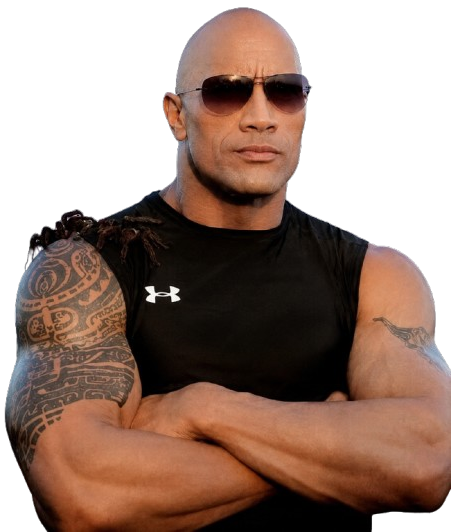
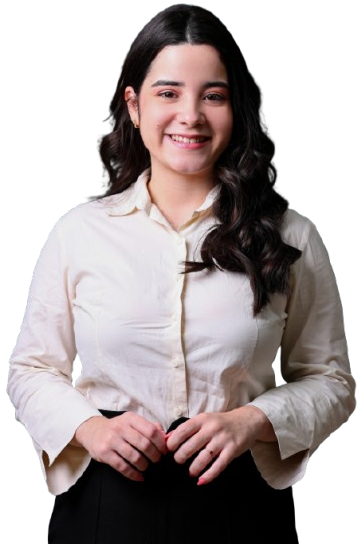
style: atualiza paleta de cores global e aplica ajustes de layout e placeholders

diff --git a/src/components/Navbar.jsx b/src/components/Navbar.jsx
@@ -25,7 +25,7 @@ export default function Navbar() {
   };
 
   return (
-    <nav className="sticky top-0 z-50 bg-black/80 backdrop-blur-md border-b border-neutral-900 w-full px-4 sm:px-6 lg:px-8">
+    <nav className="sticky top-0 z-50 bg-neutral-950 backdrop-blur-md border-b border-neutral-900 w-full px-4 sm:px-6 lg:px-8">
       <div className="max-w-7xl mx-auto flex items-center justify-between h-20">
 
         {/* Logo / Marca */}
@@ -40,14 +40,6 @@ export default function Navbar() {
               e.target.nextSibling.classList.add('flex');
             }}
           />
-          <div className="hidden flex-col leading-tight">
-            <span className="text-2xl font-black tracking-widest text-white">
-              LAMPE
-            </span>
-            <span className="text-[8px] sm:text-[9px] text-neutral-500 tracking-wider font-semibold uppercase">
-              A Luz que protege sua marca
-            </span>
-          </div>
         </NavLink>
 
         {/* Desktop Links */}
@@ -69,12 +61,11 @@ export default function Navbar() {
                 </NavLink>
 
                 {/* Submenu Dropdown com Hover Bridge */}
-                <div 
-                  className={`absolute top-[70px] left-1/2 -translate-x-1/2 w-60 bg-[#121214] border border-neutral-800 rounded-xl shadow-2xl py-2 z-50 transition-all duration-300 transform ${
-                    showDropdown 
-                      ? 'opacity-100 visible translate-y-0 pointer-events-auto' 
-                      : 'opacity-0 invisible translate-y-2 pointer-events-none'
-                  }`}
+                <div
+                  className={`absolute top-[70px] left-1/2 -translate-x-1/2 w-60 bg-[#121214] border border-neutral-800 rounded-xl shadow-2xl py-2 z-50 transition-all duration-300 transform ${showDropdown
+                    ? 'opacity-100 visible translate-y-0 pointer-events-auto'
+                    : 'opacity-0 invisible translate-y-2 pointer-events-none'
+                    }`}
                 >
                   {/* Hover Bridge: área invisível conectando o link ao dropdown */}
                   <div className="absolute -top-4 left-0 w-full h-4 bg-transparent" />
@@ -82,33 +73,30 @@ export default function Navbar() {
                   <NavLink
                     to="/servicos?tipo=marca"
                     onClick={() => setShowDropdown(false)}
-                    className={`block px-4 py-3 text-sm rounded-lg mx-2 transition-colors font-medium ${
-                      location.search === '?tipo=marca' || location.search === '' 
-                        ? 'text-yellow-400 bg-neutral-800/50 font-semibold' 
-                        : 'text-neutral-400 hover:text-yellow-400 hover:bg-neutral-800/40'
-                    }`}
+                    className={`block px-4 py-3 text-sm rounded-lg mx-2 transition-colors font-medium ${location.search === '?tipo=marca' || location.search === ''
+                      ? 'text-yellow-400 bg-neutral-800/50 font-semibold'
+                      : 'text-neutral-400 hover:text-yellow-400 hover:bg-neutral-800/40'
+                      }`}
                   >
                     Registro de Marca
                   </NavLink>
                   <NavLink
                     to="/servicos?tipo=patentes"
                     onClick={() => setShowDropdown(false)}
-                    className={`block px-4 py-3 text-sm rounded-lg mx-2 transition-colors font-medium ${
-                      location.search === '?tipo=patentes' 
-                        ? 'text-yellow-400 bg-neutral-800/50 font-semibold' 
-                        : 'text-neutral-400 hover:text-yellow-400 hover:bg-neutral-800/40'
-                    }`}
+                    className={`block px-4 py-3 text-sm rounded-lg mx-2 transition-colors font-medium ${location.search === '?tipo=patentes'
+                      ? 'text-yellow-400 bg-neutral-800/50 font-semibold'
+                      : 'text-neutral-400 hover:text-yellow-400 hover:bg-neutral-800/40'
+                      }`}
                   >
                     Registro de Patentes
                   </NavLink>
                   <NavLink
                     to="/servicos?tipo=projetos"
                     onClick={() => setShowDropdown(false)}
-                    className={`block px-4 py-3 text-sm rounded-lg mx-2 transition-colors font-medium ${
-                      location.search === '?tipo=projetos' 
-                        ? 'text-yellow-400 bg-neutral-800/50 font-semibold' 
-                        : 'text-neutral-400 hover:text-yellow-400 hover:bg-neutral-800/40'
-                    }`}
+                    className={`block px-4 py-3 text-sm rounded-lg mx-2 transition-colors font-medium ${location.search === '?tipo=projetos'
+                      ? 'text-yellow-400 bg-neutral-800/50 font-semibold'
+                      : 'text-neutral-400 hover:text-yellow-400 hover:bg-neutral-800/40'
+                      }`}
                   >
                     Projetos
                   </NavLink>

diff --git a/src/pages/About.jsx b/src/pages/About.jsx
@@ -42,43 +42,10 @@ export default function About() {
           </p>
         </div>
 
-        {/* 3-Column Layout (Lara - Lightbulb - Pedro) */}
+        {/* 3-Column Layout (Pedro - Lightbulb - Lara) */}
         <div className="grid grid-cols-3 items-center gap-4 sm:gap-8 max-w-3xl mx-auto">
 
-          {/* Column 1: Lara */}
-          <div
-            className="flex flex-col items-center justify-end cursor-pointer"
-            onMouseEnter={() => setSelectedPerson('lara')}
-            onClick={() => setSelectedPerson('lara')}
-          >
-            <div className="h-72 sm:h-80 md:h-[350px] flex items-end justify-center">
-              <img
-                src="/Lara.png"
-                alt="Lara"
-                className={`w-auto max-h-full object-contain ${selectedPerson === 'lara'
-                  ? 'opacity-100 grayscale-0 drop-shadow-[0_0_25px_rgba(250,204,21,0.85)] scale-105 transition-all duration-300'
-                  : 'opacity-60 grayscale brightness-75 transition-all duration-300 hover:opacity-100 hover:grayscale-0'
-                  }`}
-              />
-            </div>
-            <span className={`mt-4 text-xs sm:text-sm font-bold transition-colors duration-300 ${selectedPerson === 'lara' ? 'text-yellow-400' : 'text-neutral-500'}`}>
-              Lara
-            </span>
-          </div>
-
-          {/* Column 2: Interactive Lightbulb */}
-          <div className="flex flex-col items-center justify-center">
-            <Lightbulb
-              size={72}
-              onClick={() => setIsLit(!isLit)}
-              className={`cursor-pointer ${isLit
-                ? 'text-yellow-400 drop-shadow-[0_0_30px_rgba(250,204,21,1)] scale-110 transition-all duration-300'
-                : 'text-neutral-600 hover:text-neutral-400 transition-colors duration-300'
-                }`}
-            />
-          </div>
-
-          {/* Column 3: Pedro */}
+          {/* Column 1: Pedro */}
           <div
             className="flex flex-col items-center justify-end cursor-pointer"
             onMouseEnter={() => setSelectedPerson('pedro')}
@@ -99,10 +66,43 @@ export default function About() {
             </span>
           </div>
 
+          {/* Column 2: Interactive Lightbulb */}
+          <div className="flex flex-col items-center justify-center">
+            <Lightbulb
+              size={72}
+              onClick={() => setIsLit(!isLit)}
+              className={`cursor-pointer ${isLit
+                ? 'text-yellow-400 drop-shadow-[0_0_30px_rgba(250,204,21,1)] scale-110 transition-all duration-300'
+                : 'text-neutral-600 hover:text-neutral-400 transition-colors duration-300'
+                }`}
+            />
+          </div>
+
+          {/* Column 3: Lara */}
+          <div
+            className="flex flex-col items-center justify-end cursor-pointer"
+            onMouseEnter={() => setSelectedPerson('lara')}
+            onClick={() => setSelectedPerson('lara')}
+          >
+            <div className="h-72 sm:h-80 md:h-[350px] flex items-end justify-center">
+              <img
+                src="/Lara.png"
+                alt="Lara"
+                className={`w-auto max-h-full object-contain ${selectedPerson === 'lara'
+                  ? 'opacity-100 grayscale-0 drop-shadow-[0_0_25px_rgba(250,204,21,0.85)] scale-105 transition-all duration-300'
+                  : 'opacity-60 grayscale brightness-75 transition-all duration-300 hover:opacity-100 hover:grayscale-0'
+                  }`}
+              />
+            </div>
+            <span className={`mt-4 text-xs sm:text-sm font-bold transition-colors duration-300 ${selectedPerson === 'lara' ? 'text-yellow-400' : 'text-neutral-500'}`}>
+              Lara
+            </span>
+          </div>
+
         </div>
 
         {/* Dynamic Detail Area */}
-        <div className="bg-neutral-900/60 border border-neutral-800 rounded-2xl p-6 relative overflow-hidden min-h-[280px]">
+        <div className="bg-neutral-900/60 border border-neutral-800 rounded-2xl p-6 relative overflow-hidden min-h-[255px]">
           <div className="absolute inset-0 bg-yellow-500/5 blur-xl pointer-events-none"></div>
 
           <AnimatePresence mode="wait">

diff --git a/src/pages/Contact.jsx b/src/pages/Contact.jsx
@@ -13,9 +13,9 @@ const CONTACT_INFO = {
     link: 'https://api.whatsapp.com/send?phone=5583987048202',
   },
   emails: [
-    { label: 'pedro@lampebr.com', link: 'mailto:pedro@lampebr.com' },
-    { label: 'lara@lampebr.com', link: 'mailto:lara@lampebr.com' },
-    { label: 'contato@lampebr.com', link: 'mailto:contato@lampebr.com' },
+    { label: 'pedro@lampebr.com', link: 'https://mail.google.com/mail/?view=cm&fs=1&to=pedro@lampebr.com' },
+    { label: 'lara@lampebr.com', link: 'https://mail.google.com/mail/?view=cm&fs=1&to=lara@lampebr.com' },
+    { label: 'contato@lampebr.com', link: 'https://mail.google.com/mail/?view=cm&fs=1&to=contato@lampebr.com' },
   ],
 };
 
@@ -80,7 +80,7 @@ export default function Contact() {
 
             {/* Coluna Esquerda: Lista de Contatos */}
             <div className="space-y-6 bg-neutral-900/40 border border-neutral-800/80 rounded-2xl p-8 backdrop-blur-sm flex flex-col justify-center h-full min-h-[300px]">
-              <h2 className="text-xl font-bold text-white mb-2 uppercase tracking-wide border-b border-neutral-800 pb-3">
+              <h2 className="text-xl font-bold text-lampe-orange mb-2 uppercase tracking-wide border-b border-neutral-800 pb-3">
                 Canais de Contato
               </h2>
               <div className="space-y-5">
@@ -139,7 +139,7 @@ export default function Contact() {
             <div className="flex flex-col items-center justify-center text-center h-full min-h-[300px]">
               <div
                 onClick={() => setIsLit(!isLit)}
-                className="cursor-pointer p-6 rounded-full hover:bg-neutral-950/40 transition-colors duration-300 relative group"
+                className="cursor-pointer p-6 rounded-full transition-colors duration-300 relative group"
               >
                 <Lightbulb
                   className={`w-28 h-28 transition-all duration-500 ${isLit
@@ -172,7 +172,7 @@ export default function Contact() {
         {/* SEÇÃO INFERIOR: "EMPRESAS QUE ACENDERAM SEUS NEGÓCIOS" */}
         <div className="space-y-10 border-t border-neutral-900 pt-16">
           <div className="text-center">
-            <h2 className="text-2xl sm:text-3xl font-black text-white tracking-wide uppercase">
+            <h2 className="text-2xl sm:text-3xl font-black text-lampe-orange   tracking-wide uppercase">
               EMPRESAS QUE <span className="text-yellow-400 drop-shadow-[0_0_8px_rgba(250,204,21,0.4)]">ACENDERAM</span> SEUS NEGÓCIOS
             </h2>
           </div>

diff --git a/src/components/Footer.jsx b/src/components/Footer.jsx
@@ -6,7 +6,7 @@ export default function Footer() {
   const currentYear = new Date().getFullYear();
 
   return (
-    <footer className="bg-black border-t border-neutral-900 text-neutral-400 py-12 px-4 sm:px-6 lg:px-8 w-full mt-auto">
+    <footer className="bg-neutral-950 border-t border-neutral-900 text-neutral-400 py-12 px-4 sm:px-6 lg:px-8 w-full mt-auto">
       <div className="max-w-7xl mx-auto grid grid-cols-1 md:grid-cols-3 gap-8 items-center text-center md:text-left">
 
         {/* Branding */}
@@ -32,7 +32,7 @@ export default function Footer() {
           <h4 className="text-sm font-bold text-white uppercase tracking-wider mb-2">Conecte-se Conosco</h4>
           <div className="flex gap-4">
             <a
-              href="https://instagram.com"
+              href="https://www.instagram.com/lampebr/"
               target="_blank"
               rel="noopener noreferrer"
               className="w-10 h-10 rounded-lg bg-neutral-900 border border-neutral-800 flex items-center justify-center text-neutral-400 hover:text-yellow-400 hover:border-yellow-400/40 hover:shadow-[0_0_10px_rgba(250,204,21,0.3)] transition-all duration-300 cursor-pointer"
@@ -45,7 +45,7 @@ export default function Footer() {
               </svg>
             </a>
             <a
-              href="https://wa.me/5581999999999"
+              href="https://api.whatsapp.com/send?phone=5583987048202"
               target="_blank"
               rel="noopener noreferrer"
               className="w-10 h-10 rounded-lg bg-neutral-900 border border-neutral-800 flex items-center justify-center text-neutral-400 hover:text-yellow-400 hover:border-yellow-400/40 hover:shadow-[0_0_10px_rgba(250,204,21,0.3)] transition-all duration-300 cursor-pointer"
@@ -56,7 +56,7 @@ export default function Footer() {
               </svg>
             </a>
             <a
-              href="mailto:contato@lampe.com.br"
+              href="https://mail.google.com/mail/?view=cm&fs=1&to=contato@lampebr.com"
               className="w-10 h-10 rounded-lg bg-neutral-900 border border-neutral-800 flex items-center justify-center text-neutral-400 hover:text-yellow-400 hover:border-yellow-400/40 hover:shadow-[0_0_10px_rgba(250,204,21,0.3)] transition-all duration-300 cursor-pointer"
               aria-label="Email"
             >

diff --git a/src/pages/Services.jsx b/src/pages/Services.jsx
@@ -36,7 +36,7 @@ const SERVICES_DATA = {
 export default function Services() {
   const navigate = useNavigate();
   const [searchParams] = useSearchParams();
-  
+
   const rawTipo = searchParams.get('tipo');
   const tipo = SERVICES_DATA[rawTipo] ? rawTipo : 'marca';
   const data = SERVICES_DATA[tipo];
@@ -93,7 +93,7 @@ export default function Services() {
 
             {/* Coluna da Direita - Conteúdo Textual Exclusivo */}
             <div className="space-y-6 flex flex-col justify-center h-full">
-              <h2 className="text-3xl lg:text-4xl xl:text-5xl font-bold text-white leading-tight">
+              <h2 className="colortext-3xl lg:text-4xl xl:text-5xl font-bold text-lampe-orange leading-tight">
                 {data.title}
               </h2>
               {data.paragraphs.map((paragraph, index) => (

diff --git a/src/pages/Home.jsx b/src/pages/Home.jsx
@@ -46,7 +46,7 @@ export default function Home() {
             transition={{ delay: 0.3, duration: 0.6 }}
             className="space-y-6 flex flex-col justify-center h-full"
           >
-            <h2 className="text-3xl lg:text-4xl xl:text-5xl font-bold text-white leading-tight">
+            <h2 className="text-3xl lg:text-4xl xl:text-5xl font-bold text-lampe-orange leading-tight">
               Inovação, Proteção e Propriedade Intelectual
             </h2>
 

diff --git a/src/App.jsx b/src/App.jsx
@@ -10,7 +10,7 @@ import Contact from './pages/Contact';
 export default function App() {
   return (
     <Router>
-      <div className="flex flex-col min-h-screen bg-neutral-950 text-white selection:bg-yellow-400 selection:text-black">
+      <div className="flex flex-col min-h-screen bg-[#121214] text-white selection:bg-yellow-400 selection:text-black">
         {/* Navigation Bar */}
         <Navbar />
 

diff --git a/src/index.css b/src/index.css
@@ -1,6 +1,7 @@
 @import "tailwindcss";
 
 @theme {
+  --color-lampe-orange: #FF8F4E;
   --color-neon-yellow: #FFD700;
   --animate-lamp-flicker: lamp-flicker 3s infinite alternate;
 
